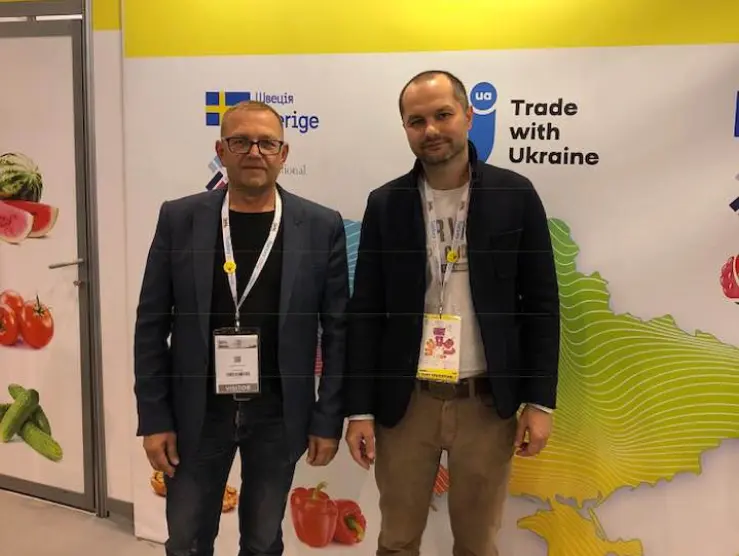
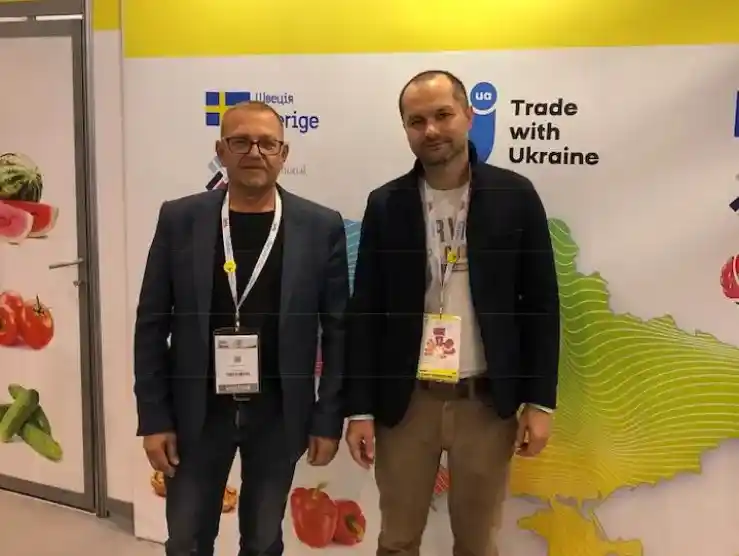
Updates

Changed region(s): [[0.5913, 0.6727, 0.6225, 0.7032], [0.5913, 0.4586, 0.6225, 0.4892]]

diff --git a/assets/render-shop-card-CYB9z_rE.js b/assets/render-shop-card-CYB9z_rE.js
@@ -1,0 +1,2 @@
[1 lines of base64/hex data omitted]
+//# sourceMappingURL=render-shop-card-CYB9z_rE.js.map

diff --git a/assets/render-news-cards-t3GYfIeI.js b/assets/render-news-cards-t3GYfIeI.js
@@ -1,0 +1,2 @@
[1 lines of base64/hex data omitted]
+//# sourceMappingURL=render-news-cards-t3GYfIeI.js.map

diff --git a/assets/img-manager-B6XskJv8.js b/assets/img-manager-B6XskJv8.js
@@ -1,0 +1,2 @@
[1 lines of base64/hex data omitted]
+//# sourceMappingURL=img-manager-B6XskJv8.js.map

diff --git a/assets/index-D-kJnJG2.js b/assets/index-D-kJnJG2.js
@@ -1,0 +1,3 @@
+const __vite__mapDeps=(i,m=__vite__mapDeps,d=(m.f||(m.f=["assets/render-shop-card-CYB9z_rE.js","assets/vendor-CPOeuTnm.js","assets/vendor-DV8PrLMj.css","assets/img-manager-B6XskJv8.js","assets/reuse-functions-DplpQI1Z.js","assets/swiper-production-Cs39DeBJ.js","assets/render-news-swiper-D63INQ8j.js","assets/render-news-cards-t3GYfIeI.js"])))=>i.map(i=>d[i]);
+import{r as o}from"./reuse-functions-DplpQI1Z.js";/* empty css             */import{o as r,_ as t}from"./btn-to-news-blCVxwTI.js";import{u as i}from"./vendor-CPOeuTnm.js";import{f as e}from"./flip-card-7hba7igv.js";document.addEventListener("DOMContentLoaded",async()=>{o(),function(){function o(){document.querySelectorAll(".shop-card__title, .shop-card__description").forEach(o=>{o.scrollWidth>o.clientWidth&&o.classList.add("active-tooltip")})}o(),window.addEventListener("resize",o)}(),e(".main-benefit__card"),r(),i(()=>t(()=>import("./render-shop-card-CYB9z_rE.js"),__vite__mapDeps([0,1,2,3,4])),".main-products",[],{threshold:0,rootMargin:"200px"}),i(()=>t(()=>import("./swiper-production-Cs39DeBJ.js"),__vite__mapDeps([5,1,2])),".production",[".production__swiper-main"],{threshold:0,rootMargin:"200px"}),i(()=>t(()=>import("./render-news-swiper-D63INQ8j.js"),__vite__mapDeps([6,7,1,2,3,4])),".news",[],{threshold:0,rootMargin:"200px"})});
+//# sourceMappingURL=index-D-kJnJG2.js.map

diff --git a/assets/btn-to-news-blCVxwTI.js b/assets/btn-to-news-blCVxwTI.js
@@ -1,0 +1,2 @@
+const e={},t=function(t,n,r){let o=Promise.resolve();if(n&&n.length>0){let t=function(e){return Promise.all(e.map(e=>Promise.resolve(e).then(e=>({status:"fulfilled",value:e}),e=>({status:"rejected",reason:e}))))};document.getElementsByTagName("link");const r=document.querySelector("meta[property=csp-nonce]"),s=r?.nonce||r?.getAttribute("nonce");o=t(n.map(t=>{if((t=function(e){return"/nuts/"+e}(t))in e)return;e[t]=!0;const n=t.endsWith(".css"),r=n?'[rel="stylesheet"]':"";if(document.querySelector(`link[href="${t}"]${r}`))return;const o=document.createElement("link");return o.rel=n?"stylesheet":"modulepreload",n||(o.as="script"),o.crossOrigin="",o.href=t,s&&o.setAttribute("nonce",s),document.head.appendChild(o),n?new Promise((e,n)=>{o.addEventListener("load",e),o.addEventListener("error",()=>n(new Error(`Unable to preload CSS for ${t}`)))}):void 0}))}function s(e){const t=new Event("vite:preloadError",{cancelable:!0});if(t.payload=e,window.dispatchEvent(t),!t.defaultPrevented)throw e}return o.then(e=>{for(const t of e||[])"rejected"===t.status&&s(t.reason);return t().catch(s)})};function n(){document.querySelector('[data-move="to-news"]').addEventListener("click",e=>{window.location.href="/nuts/news"})}export{t as _,n as o};
+//# sourceMappingURL=btn-to-news-blCVxwTI.js.map

diff --git a/about.html b/about.html
@@ -18,13 +18,12 @@
     href="https://fonts.googleapis.com/css2?family=Lato&family=Montserrat:wght@100..900&family=Raleway:ital,wght@0,100..900;1,100..900&family=Roboto:wght@100..900&display=swap"
     rel="stylesheet"
   />
-  <script type="module" crossorigin src="/nuts/assets/about-DjxK0BAR.js"></script>
+  <script type="module" crossorigin src="/nuts/assets/about-CJ4zKANc.js"></script>
   <link rel="modulepreload" crossorigin href="/nuts/assets/vendor-CPOeuTnm.js">
   <link rel="modulepreload" crossorigin href="/nuts/assets/reuse-functions-DplpQI1Z.js">
-  <link rel="modulepreload" crossorigin href="/nuts/assets/preload-helper-Cr6v0EL8.js">
+  <link rel="modulepreload" crossorigin href="/nuts/assets/btn-to-news-blCVxwTI.js">
   <link rel="modulepreload" crossorigin href="/nuts/assets/flip-card-7hba7igv.js">
   <link rel="modulepreload" crossorigin href="/nuts/assets/btn-to-gallery-CeX_tepe.js">
-  <link rel="modulepreload" crossorigin href="/nuts/assets/btn-to-news-B2ybp8tH.js">
   <link rel="stylesheet" crossorigin href="/nuts/assets/vendor-DV8PrLMj.css">
   <link rel="stylesheet" crossorigin href="/nuts/assets/about-DfTl8TvX.css">
 </head>

diff --git a/index.html b/index.html
@@ -18,12 +18,11 @@
       href="https://fonts.googleapis.com/css2?family=Lato&family=Montserrat:wght@100..900&family=Raleway:ital,wght@0,100..900;1,100..900&family=Roboto:wght@100..900&display=swap"
       rel="stylesheet"
     />
-    <script type="module" crossorigin src="/nuts/assets/index-CA5eQU8i.js"></script>
+    <script type="module" crossorigin src="/nuts/assets/index-D-kJnJG2.js"></script>
     <link rel="modulepreload" crossorigin href="/nuts/assets/vendor-CPOeuTnm.js">
     <link rel="modulepreload" crossorigin href="/nuts/assets/reuse-functions-DplpQI1Z.js">
-    <link rel="modulepreload" crossorigin href="/nuts/assets/preload-helper-Cr6v0EL8.js">
+    <link rel="modulepreload" crossorigin href="/nuts/assets/btn-to-news-blCVxwTI.js">
     <link rel="modulepreload" crossorigin href="/nuts/assets/flip-card-7hba7igv.js">
-    <link rel="modulepreload" crossorigin href="/nuts/assets/btn-to-news-B2ybp8tH.js">
     <link rel="stylesheet" crossorigin href="/nuts/assets/vendor-DV8PrLMj.css">
     <link rel="stylesheet" crossorigin href="/nuts/assets/main-BgNKdnV5.css">
   </head>

diff --git a/news.html b/news.html
@@ -18,11 +18,12 @@
     href="https://fonts.googleapis.com/css2?family=Lato&family=Montserrat:wght@100..900&family=Raleway:ital,wght@0,100..900;1,100..900&family=Roboto:wght@100..900&display=swap"
     rel="stylesheet"
   />
-  <script type="module" crossorigin src="/nuts/assets/news-3ohNb43z.js"></script>
+  <script type="module" crossorigin src="/nuts/assets/news-BsfCNhkA.js"></script>
   <link rel="modulepreload" crossorigin href="/nuts/assets/vendor-CPOeuTnm.js">
   <link rel="modulepreload" crossorigin href="/nuts/assets/reuse-functions-DplpQI1Z.js">
-  <link rel="modulepreload" crossorigin href="/nuts/assets/preload-helper-Cr6v0EL8.js">
   <link rel="modulepreload" crossorigin href="/nuts/assets/btn-to-gallery-CeX_tepe.js">
+  <link rel="modulepreload" crossorigin href="/nuts/assets/img-manager-B6XskJv8.js">
+  <link rel="modulepreload" crossorigin href="/nuts/assets/render-news-cards-t3GYfIeI.js">
   <link rel="stylesheet" crossorigin href="/nuts/assets/vendor-DV8PrLMj.css">
   <link rel="stylesheet" crossorigin href="/nuts/assets/news-CnwaQha2.css">
 </head>

diff --git a/assets/about-CJ4zKANc.js b/assets/about-CJ4zKANc.js
@@ -1,0 +1,3 @@
+const __vite__mapDeps=(i,m=__vite__mapDeps,d=(m.f||(m.f=["assets/swiper-production-Cs39DeBJ.js","assets/vendor-CPOeuTnm.js","assets/vendor-DV8PrLMj.css","assets/render-news-swiper-D63INQ8j.js","assets/render-news-cards-t3GYfIeI.js","assets/img-manager-B6XskJv8.js","assets/reuse-functions-DplpQI1Z.js"])))=>i.map(i=>d[i]);
+import{r as o}from"./reuse-functions-DplpQI1Z.js";import{o as r,_ as s}from"./btn-to-news-blCVxwTI.js";import{u as t}from"./vendor-CPOeuTnm.js";import{f as e}from"./flip-card-7hba7igv.js";import{o as n}from"./btn-to-gallery-CeX_tepe.js";document.addEventListener("DOMContentLoaded",async()=>{o(),e(".gallery-photo__card"),n(),r(),t(()=>s(()=>import("./swiper-production-Cs39DeBJ.js"),__vite__mapDeps([0,1,2])),".production",[".production__swiper-main"],{threshold:0,rootMargin:"200px"}),t(()=>s(()=>import("./render-news-swiper-D63INQ8j.js"),__vite__mapDeps([3,4,1,2,5,6])),".news",[],{threshold:0,rootMargin:"200px"})});
+//# sourceMappingURL=about-CJ4zKANc.js.map

diff --git a/assets/render-news-swiper-D63INQ8j.js b/assets/render-news-swiper-D63INQ8j.js
@@ -1,0 +1,2 @@
+import{g as e,r as s}from"./render-news-cards-t3GYfIeI.js";import{S as n,N as r}from"./vendor-CPOeuTnm.js";import{b as t,l as o}from"./reuse-functions-DplpQI1Z.js";import"./img-manager-B6XskJv8.js";function i(e){e.querySelectorAll(".img[data-src]").forEach(e=>{t(e)})}function a(){!function(e,s=2){const n=e.slides.length,r=()=>{const r=e.activeIndex;for(let t=-s;t<=s;t++){const s=(r+t+n)%n,o=e.slides[s];o&&i(o)}};r(),e.on("slideChange",r)}(new n(".news__swiper",{modules:[r],loop:!0,navigation:{nextEl:".news__btn_next",prevEl:".news__btn_prev"},grabCursor:!0,speed:700,breakpoints:{0:{spaceBetween:16,slidesPerView:1.2},575:{slidesPerView:1.5},768:{spaceBetween:16,slidesPerView:2.5},1024:{spaceBetween:32,slidesPerView:3}}}))}async function c(){const n=await e(),r=document.querySelector(".news__swiper-wrapper");s(n,r),a(),o()}export{c as renderNewsSwiper};
+//# sourceMappingURL=render-news-swiper-D63INQ8j.js.map

diff --git a/assets/news-BsfCNhkA.js b/assets/news-BsfCNhkA.js
@@ -1,0 +1,2 @@
+import{l as r,a,r as e}from"./reuse-functions-DplpQI1Z.js";import{o as s}from"./btn-to-gallery-CeX_tepe.js";import{g as o,r as n}from"./render-news-cards-t3GYfIeI.js";import"./vendor-CPOeuTnm.js";import"./img-manager-B6XskJv8.js";document.addEventListener("DOMContentLoaded",async()=>{await async function(){const e=await o(),s=document.querySelector(".news-block__wrapper"),t=e.slice(0,3);n(t,s),r(),a()}(),e(),s()});
+//# sourceMappingURL=news-BsfCNhkA.js.map
